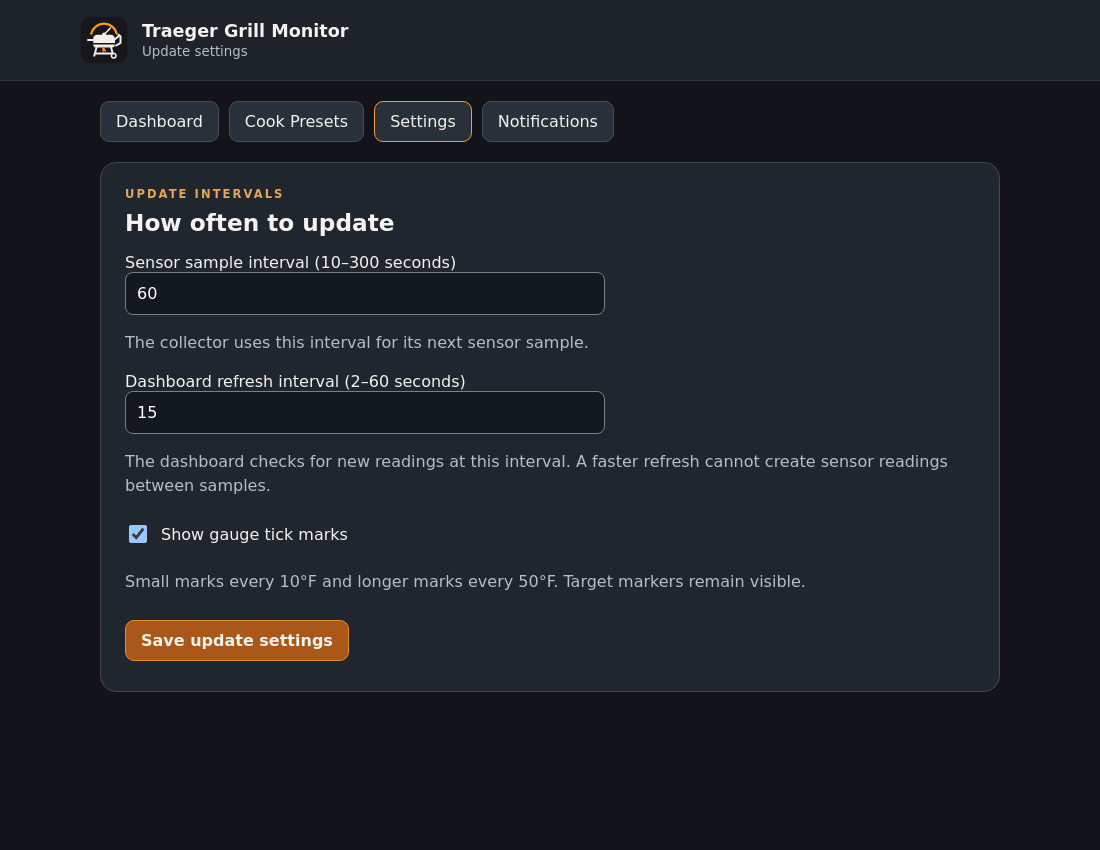
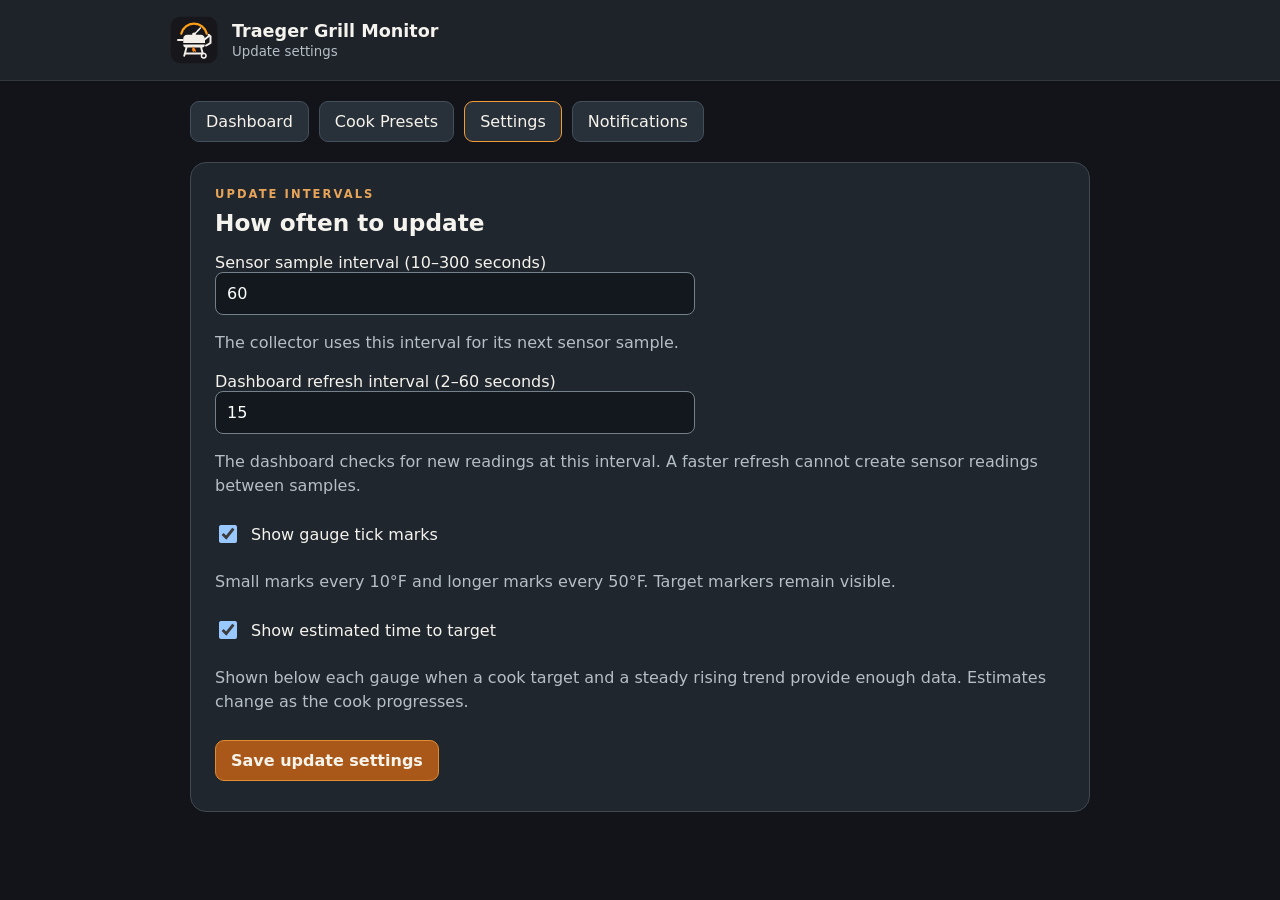
Illustrate time-to-target gauges and setting in README

Changed region(s): [[0.0927, 0.3671, 0.8655, 0.8871], [0.0618, 0.0, 0.5564, 0.3671]]

diff --git a/README.md b/README.md
@@ -23,9 +23,17 @@ Open the URL printed at the end. Reboot first if the installer enables the ADC o
 | Notifications | Configure Pushover keys and individual alerts. |
 | Settings | Set sensor and browser update intervals; toggle gauge tick marks and time-to-target estimates. |
 
-![Saved cook presets](docs/images/cooks.png)
+### Estimated time to target
 
-![Update settings and gauge marks](docs/images/settings.png)
+This recorded warmup example shows an estimate beneath the Grill gauge. Estimates recalculate with each new sensor sample and can change as temperatures rise or fall. A probe without a useful rising trend shows “calculating” until enough readings arrive.
+
+![Recorded grill warmup showing time to target beneath the gauges](docs/images/time-to-target.png)
+
+The option can be turned off in Settings:
+
+![Settings with the Show estimated time to target option](docs/images/settings.png)
+
+![Saved cook presets](docs/images/cooks.png)
 
 Read the illustrated [user guide](docs/USER_GUIDE.md). Estimates update with each new sensor sample. A gauge shows “calculating” until a rising trend is available, and the estimate may move as the grill or probe temperature changes.
 
